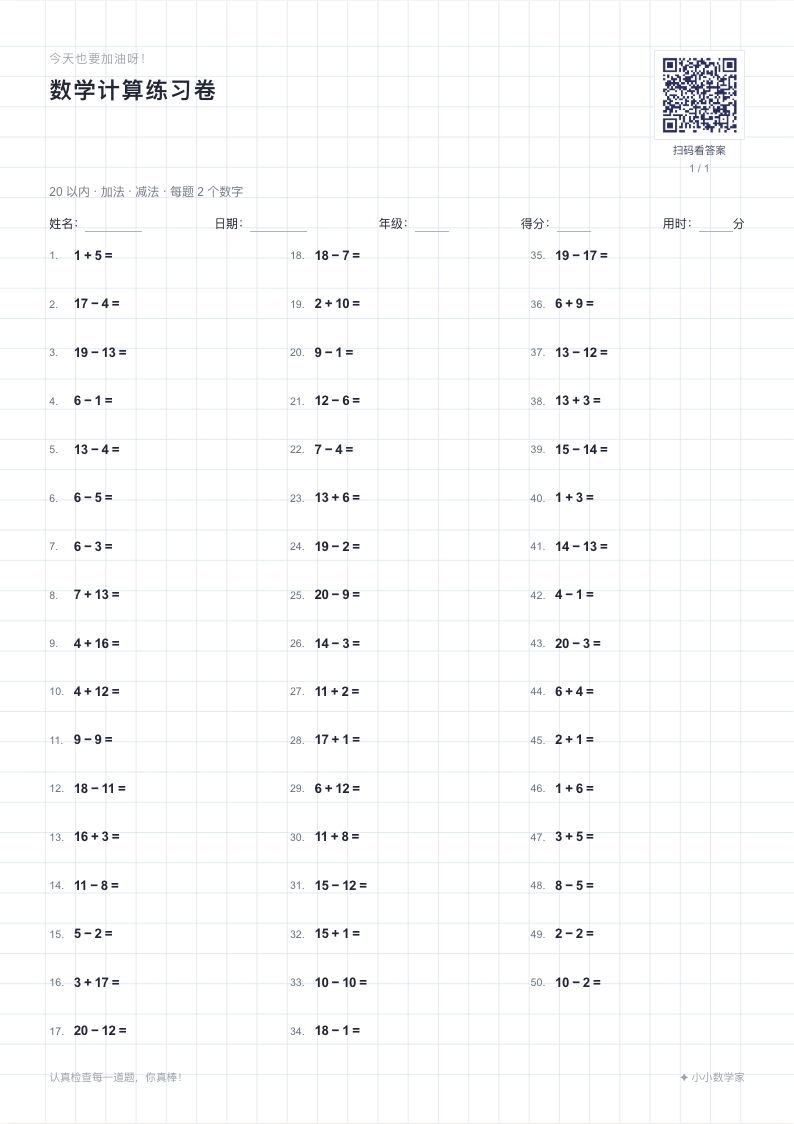
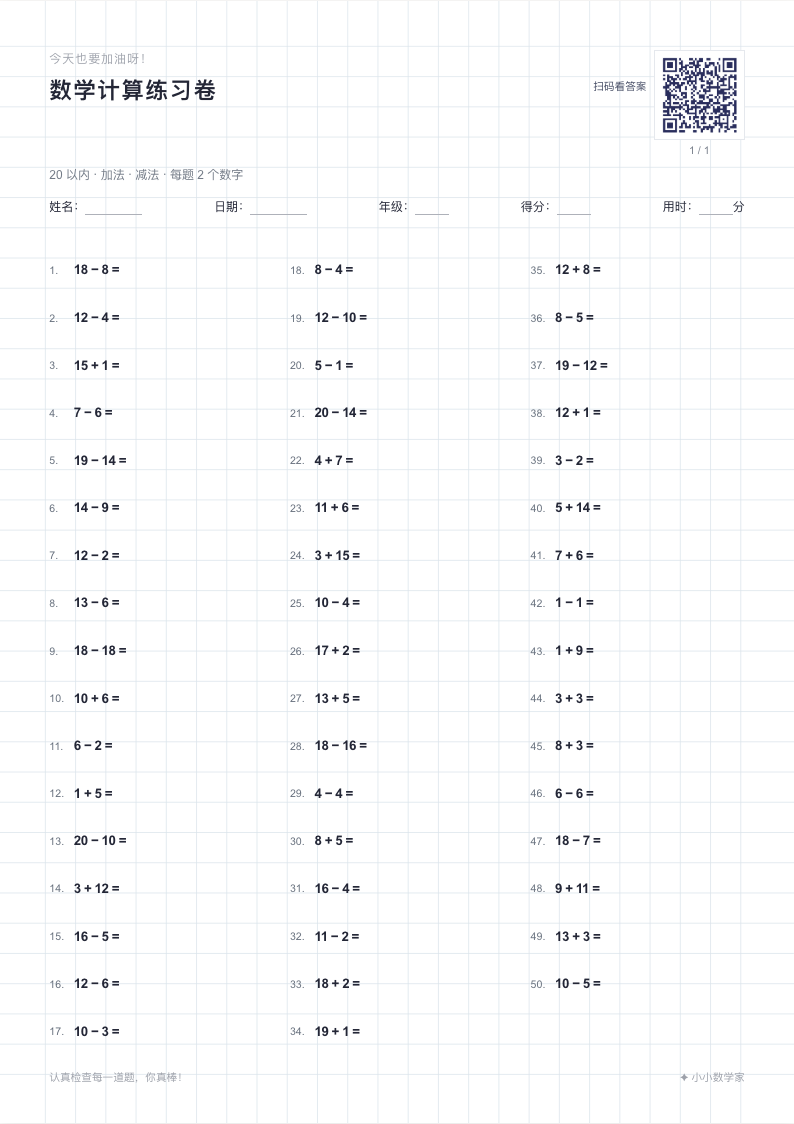
fix: prevent blank mobile print pages and refine worksheet header

diff --git a/src/style.css b/src/style.css
@@ -11,6 +11,7 @@
 .paper:not(.answer-page) .paper-top{height:44mm}.paper-heading{align-items:flex-start}.paper-heading-right{display:flex;align-items:flex-start;gap:3mm}.paper-qr{display:block;width:24mm;height:24mm;flex:none;background:#fff;border:1px solid #e5e8ed;padding:1mm}.paper-qr img{display:block;width:100%;height:100%}.paper-qr span{font-size:7pt}.paper-columns{grid-template-columns:repeat(var(--question-columns,2),minmax(0,1fr))}.problem-column{grid-template-rows:repeat(var(--question-rows,25),minmax(0,1fr))}.problem-expression{flex:0 1 auto}.answer-area{width:auto;min-width:10mm;flex:1}.paper-columns[style*="3"] .problem{gap:1mm;padding:0;font-size:10pt}.paper-columns[style*="3"] .problem-number{min-width:5.5mm;font-size:8pt}
 .paper-heading-right{flex-direction:column;align-items:center;gap:1mm}.paper-qr{order:0}.paper-heading-right .paper-page{order:1;font-size:9pt}.copies-hint{margin:8px 0 0;color:#9697a8;font-size:11px;line-height:1.5}.custom-range input:disabled{background:#f4f3f5;color:#a6a7ae;cursor:not-allowed}.print-button:disabled{background:#b3b0b8;cursor:not-allowed;box-shadow:none;transform:none}
 .paper:not(.answer-page) .paper-top{height:48mm}.paper-heading-right .paper-qr-hint{order:1;color:#464d65;font-size:8pt;line-height:1.3;white-space:nowrap}.paper-heading-right .paper-page{order:2;font-size:8pt}
+.paper-heading-right{flex-direction:row;align-items:flex-start;gap:2mm}.paper-qr-stack{display:flex;flex-direction:column;align-items:center;gap:1mm}.paper-heading-right .paper-qr-hint{order:0;align-self:flex-start;margin-top:8mm}.paper-heading-right .paper-page{order:0}.paper-columns{padding-top:4mm}
 .shared-answers{max-width:1080px;min-height:100vh;margin:auto;padding:28px 26px 65px}.shared-header{display:flex;align-items:center;justify-content:space-between;gap:12px}.shared-header a{color:#5d4cb9;background:#fff;padding:11px 15px;border-radius:11px;text-decoration:none;font-size:13px;font-weight:700}.shared-intro{background:#ffefd6;border-radius:25px;padding:38px;margin:36px 0 22px}.shared-intro h1{font-size:clamp(28px,5vw,43px);color:#333454;margin:14px 0 12px}.shared-intro p{color:#6b6a7a;line-height:1.8;margin:0}.shared-grid{display:grid;grid-template-columns:repeat(auto-fill,minmax(210px,1fr));gap:10px}.shared-answer{display:flex;align-items:center;gap:8px;min-width:0;background:#fff;border:1px solid #ede7db;border-radius:12px;padding:13px 15px;font-size:14px;font-weight:600}.shared-answer span:nth-child(2){min-width:0;flex:1}.shared-number{color:#8377c5;width:27px;flex:none}.shared-answer strong{font-size:19px;color:#ea7259}.shared-footer{text-align:center;color:#8f8995;padding-top:36px;font-size:13px}
 .shared-start{display:inline-flex;align-items:center;justify-content:center;gap:14px;min-height:46px;margin-top:22px;padding:12px 24px;border-radius:14px;background:#6955d7;color:#fff;text-decoration:none;font-size:16px;font-weight:800;box-shadow:0 6px 0 #5949ad25;transition:transform .15s,box-shadow .15s}.shared-start:hover{transform:translateY(-2px);box-shadow:0 8px 14px #5949ad32}.shared-start:focus-visible{outline:3px solid #29245c;outline-offset:3px}.shared-start span{font-size:20px}
 .hero-top{display:flex;align-items:flex-start;justify-content:space-between;gap:18px}.site-qr{display:flex;align-items:center;gap:10px;padding:8px 13px 8px 8px;background:#fff;border:1px solid #f2dfc9;border-radius:16px;box-shadow:0 7px 20px #99735216;color:#44446b;text-decoration:none;font-size:12px;font-weight:800;z-index:3}.site-qr img,.qr-loading{width:90px;height:90px;display:grid;place-items:center;flex:none;border-radius:9px}.qr-loading{background:#f0edff;font-size:35px;color:#6755cf}.site-qr small{display:block;color:#a6a2a3;font-size:10px;margin-top:5px;font-weight:600;white-space:nowrap}.hero-doodle{right:260px;top:118px;transform:scale(.7);transform-origin:center right}.answer-columns{display:grid;grid-template-columns:repeat(var(--answer-columns),minmax(0,1fr));gap:7mm;flex:1;min-height:0}.answer-column{display:grid;grid-template-rows:repeat(25,minmax(0,1fr))}.answer-row{border-bottom:1px solid #e8e9eb;display:flex;align-items:center;justify-content:space-between;padding:0 3mm;font-size:11pt;color:#666}.answer-row strong{color:#262a42;font-size:12pt}.answer-page .paper-top{height:35mm}
@@ -18,5 +19,16 @@
 @media(max-width:570px){.hero-inner{min-height:310px;padding:20px 22px 35px}.hero-copy{padding-top:40px}.hero-copy p{font-size:13px}.hero-doodle{opacity:.12;right:-100px;top:70px}.workspace{padding:31px 16px 55px}.workspace-heading{margin-bottom:21px}.workspace-heading h2{font-size:24px}.controls{display:flex;gap:12px}.control-card{padding:18px}.preview-toolbar{align-items:flex-start}.preview-toolbar h3{font-size:16px}.print-button{padding:10px;font-size:12px}.preview-section{padding:13px}.site-footer{padding:0 16px 25px;gap:8px;font-size:10px}}
 @media(max-width:570px){.site-qr{padding:5px;flex-direction:column;gap:0;font-size:9px;text-align:center}.site-qr img,.qr-loading{width:64px;height:64px}.site-qr small{display:none}.brand{font-size:15px}.brand small{display:block;margin-left:0}.brand-mark{width:34px;height:34px}.hero-doodle{display:none}}
 @media(prefers-reduced-motion:reduce){*,*::before,*::after{animation-duration:.01ms!important;transition-duration:.01ms!important;scroll-behavior:auto!important}}
-@page{size:A4 portrait;margin:0}
-@media print{html,body,#app{width:210mm!important;margin:0!important;padding:0!important;background:white!important}.screen-shell{overflow:visible}.hero,.workspace-heading,.controls,.preview-toolbar,.preview-note,.status,.site-footer{display:none!important}.workspace,.workspace-grid,.preview-section,.paper-scroll{display:block!important;width:auto!important;max-width:none!important;margin:0!important;padding:0!important;border:0!important;box-shadow:none!important;background:transparent!important;overflow:visible!important}.paper{width:210mm!important;min-width:210mm!important;height:297mm!important;margin:0!important;box-shadow:none!important;break-after:page;page-break-after:always;overflow:hidden!important;-webkit-print-color-adjust:exact;print-color-adjust:exact}.paper:last-child{break-after:auto;page-break-after:auto}.paper-kicker,.paper-page,.paper-subtitle,.paper-foot,.problem-number{color:#666!important}.writing-guide{stroke:#9ca8af!important}.paper-dots .writing-guide{fill:#879ca5!important;stroke:none!important}.student-fields{border-color:#bbb!important}}
+@page{size:A4 portrait;margin:10mm}
+@media print{
+  html,body,#app{width:auto!important;margin:0!important;padding:0!important;background:white!important}
+  .screen-shell{min-height:0;overflow:visible}
+  .hero,.workspace-heading,.controls,.preview-toolbar,.preview-note,.status,.site-footer{display:none!important}
+  .workspace,.workspace-grid,.preview-section,.paper-scroll{display:block!important;width:auto!important;max-width:none!important;margin:0!important;padding:0!important;border:0!important;box-shadow:none!important;background:transparent!important;overflow:visible!important}
+  /* Do not fill the entire physical A4: iOS may add its own unprintable margins. */
+  .paper{width:100%!important;min-width:0!important;height:265mm!important;margin:0!important;padding:4mm 3mm 3mm!important;box-shadow:none!important;break-inside:avoid-page;page-break-inside:avoid;overflow:hidden!important;-webkit-print-color-adjust:exact;print-color-adjust:exact}
+  /* Break before the next sheet, never after the final one (which caused blank pages). */
+  .paper+.paper{break-before:page;page-break-before:always}
+  .paper-kicker,.paper-page,.paper-subtitle,.paper-foot,.problem-number{color:#666!important}
+  .student-fields{border-color:#bbb!important}
+}

diff --git a/src/main.ts b/src/main.ts
@@ -167,7 +167,7 @@ function printPage(worksheet: Worksheet, page: number, copyIndex: number): strin
 
   return `<section class="paper paper-${paperStyle}" aria-label="试卷第 ${page + 1} 页">${pagePattern(paperStyle)}
     <div class="paper-top">
-      <div class="paper-heading"><div><span class="paper-kicker">${copies > 1 ? `第 ${copyIndex + 1} 份 · ` : ''}今天也要加油呀！</span><h2>数学计算练习卷</h2></div><div class="paper-heading-right"><a class="paper-qr" href="${sheetUrl(worksheets[copyIndex], copyIndex)}" aria-label="扫码查看这份试卷的答案">${qrImages[copyIndex] ? `<img src="${qrImages[copyIndex]}" alt="扫码查看这份试卷的答案" width="90" height="90">` : '<span>二维码生成中</span>'}</a><span class="paper-qr-hint">扫码看答案</span><span class="paper-page">${page + 1} / ${settings.count / 50}</span></div></div>
+      <div class="paper-heading"><div><span class="paper-kicker">${copies > 1 ? `第 ${copyIndex + 1} 份 · ` : ''}今天也要加油呀！</span><h2>数学计算练习卷</h2></div><div class="paper-heading-right"><span class="paper-qr-hint">扫码看答案</span><div class="paper-qr-stack"><a class="paper-qr" href="${sheetUrl(worksheets[copyIndex], copyIndex)}" aria-label="扫码查看这份试卷的答案">${qrImages[copyIndex] ? `<img src="${qrImages[copyIndex]}" alt="扫码查看这份试卷的答案" width="90" height="90">` : '<span>二维码生成中</span>'}</a><span class="paper-page">${page + 1} / ${settings.count / 50}</span></div></div></div>
       <p class="paper-subtitle">${settings.limit} 以内 · ${operationLabel} · 每题 ${settings.operands} 个数字</p>
       <div class="student-fields"><span>姓名：<i></i></span><span>日期：<i></i></span><span>年级：<i></i></span><span>得分：<i></i></span><span>用时：<i></i> 分</span></div>
     </div>

diff --git a/AGENTS.md b/AGENTS.md
@@ -15,13 +15,13 @@
 - 多数字混合运算的显示与求值规则必须一致；不要通过直接计算展示字符串或使用 `eval` 来决定答案。
 - 顾及一年级使用场景：默认设置易懂，算式清楚，保留足够手写空间。打印内容按 A4 每页 50 题排版，每页都要有姓名、日期、年级、得分、用时栏。支持白纸、数学本子方格、横线、点阵和田字格五种整页纸张底纹，保持分页一致；底纹不能只依赖打印背景图形选项，不能只在算式后面局部显示。可选答案每份试卷只额外占一张 A4（50 / 100 题均如此）。
 - 网页 UI 应色彩丰富、适合小孩操作，但仍保持文字对比度、明确的选中状态和易触达的按钮；屏幕视觉与打印卷面分离，不让彩色装饰造成打印费墨、分页错误或书写障碍。
-- 每张打印试卷右上角的二维码应能打开网站并显示**对应试卷**的算式与答案；二维码下方标注“扫码看答案”，页码在提示文字下方。多份试卷的二维码必须分别对应各自答案，已有二维码的随机算法版本应保持可重现。短算式可用三列、长算式用两列，但每页始终是 50 题，且不挤占答案书写空间。50 题模式可生成多份不同试卷；100 题模式限一份，答案每份一张 A4。
+- 每张打印试卷右上角的二维码应能打开网站并显示**对应试卷**的算式与答案；二维码左侧标注“扫码看答案”，页码在二维码下方。多份试卷的二维码必须分别对应各自答案，已有二维码的随机算法版本应保持可重现。短算式可用三列、长算式用两列，但每页始终是 50 题，且不挤占答案书写空间。50 题模式可生成多份不同试卷；100 题模式限一份，答案每份一张 A4。
 - 优先保持实现简单、可访问、便于在 GitHub Pages 静态托管；不要引入没有必要的服务端依赖。
 
 ## 验证与文档
 
 - 变更出题逻辑时，验证范围边界、减法非负、除法整除、多步中间结果、重复题处理与题目组合不足的情况。
-- 变更打印样式时，分别检查五种整页底纹的 50 题一页、100 题两页、页眉字段、可写空间及答案只占一张 A4；记录手动验证使用的浏览器和打印设置。
+- 变更打印样式时，分别检查五种整页底纹的 50 题一页、100 题两页、页眉字段、可写空间、移动端不多出空白页及答案每份只占一张 A4；记录手动验证使用的浏览器和打印设置。
 - 每次新增、修改或移除功能，以及任何涉及 README 内容或部署方式的变更，都必须同步检查并按需更新 `README.md`，保证项目介绍反映真实状态、Fork 部署步骤与实际部署流程一致；不得将未实现功能写成已实现。
 - `README.md` 只包含项目介绍及 Fork 部署步骤。详细需求放在 `docs/requirements.md`；开发、测试与机密扫描的操作约定放在本文件或其他开发文档，不放在 README。
 

diff --git a/docs/requirements.md b/docs/requirements.md
@@ -25,7 +25,7 @@
 - “生成新试卷”和“打印试卷”应醒目且易于点击；表单文字和触控区域适合手机、平板与电脑使用。
 - 预览区域接近实际纸张的样式，切换卷面样式时能直接看到效果。动画可有但不能影响阅读、操作或打印，尊重减少动态效果的系统设置。
 - 保持文字、按钮与背景的可读对比度；屏幕上的丰富色彩不应带入打印试卷的大面积背景，避免费墨或遮挡手写区域。
-- 每张打印试卷右上角显示**该份试卷的专属二维码**，二维码下方标注“**扫码看答案**”，页码再放在提示文字下方；扫码打开当前可访问的站点（包括 Fork 站点），网页展示这份试卷按题号排列的算式与答案。多份试卷分别有各自的二维码；100 题的两页使用同一个二维码。二维码不得依赖服务端保存题目，网址里的版本与种子必须可重现对应卷面。本站自定义域名定为 `math.svenshen.me`。DNS 未生效前不能把二维码硬编码到不可访问的域名。
+- 每张打印试卷右上角显示**该份试卷的专属二维码**，二维码**左侧**标注“**扫码看答案**”，页码放在二维码下方；扫码打开当前可访问的站点（包括 Fork 站点），网页展示这份试卷按题号排列的算式与答案。多份试卷分别有各自的二维码；100 题的两页使用同一个二维码。二维码不得依赖服务端保存题目，网址里的版本与种子必须可重现对应卷面。本站自定义域名定为 `math.svenshen.me`。DNS 未生效前不能把二维码硬编码到不可访问的域名。
 - 扫码打开的答案页顶部提供醒目的“**我要出题**”按钮，点击返回本网站的出题首页，方便看完答案后生成自己的练习卷。
 
 ## 打印要求
@@ -33,6 +33,7 @@
 - 使用 A4 纵向版式，每页固定 50 题；100 题恰好分成两页。
 - 两个数字的基础题在空间允许时优先排成三列，减少两列布局的空旷感；多数字或较大范围题用两列保留可书写空间，仍然每页固定 50 题。
 - 题目区域留有手写答案的空间；每页都有填写栏与页码。
+- 姓名等信息栏的下边线与第一行题目之间留有明显间距；打印内容需在移动端系统可能附加的页边距内排下，不因末页分页符产生空白页。
 - 五种底纹使用相同的题目区域、分页和基本可书写空间；整页辅助线不能遮挡算式，等号后留有空白书写区，打印预览应与实际选择一致。
 - 方格、虚线、点阵与田字格不能只依赖浏览器的“打印背景图形”选项；应采用在常见浏览器中默认也能打印的线条或点实现，并检查它们不会太密或太深。
 - 打印时隐藏网页的设置和操作按钮；若选择打印答案，每份试卷（50 / 100 题）只增加一张答案 A4，按题号查找答案，不混入练习卷。多份试卷的答案页排在所有题目页之后，且注明对应份数。

diff --git a/README.md b/README.md
@@ -10,14 +10,14 @@
 - **选择计算方式**：加、减、乘、除可多选，每题可使用 2、3 或 4 个数字。一年级默认是 20 以内的两数字加减题。所有数字、中间结果和答案均在选定范围内，且不会出现负数；除法只出能整除的题。
 - **一次制作多份**：50 题模式可生成 1～10 份题目不同的试卷，而不是把同一张纸复印多次；100 题模式固定为一份。当题目条件过窄、无法保证多份不同的时候，网页会提示调整设置。
 - **选择整页底纹**：清爽白纸、数学方格、横线、点阵、田字格。底纹覆盖整张试卷，而不是只加在等号后面；屏幕预览与打印版式对应。
-- **按 A4 打印**：每张试卷纸 50 题，顶部留有姓名、日期、年级、得分和用时的填写位置。两数字基础题使用三列，较长的算式使用两列。100 题分成两张 A4；可以选择为**每份**试卷再加印一张答案 A4。
-- **扫码核对答案**：每张试卷右上角都有“扫码看答案”的专属二维码，手机扫码可在网页查看**这一份试卷**的算式与答案。答案页有“我要出题”按钮，可以直接回到出题首页。
+- **按 A4 打印**：每张试卷纸 50 题，顶部留有姓名、日期、年级、得分和用时的填写位置，第一行题目与页眉分隔线留有间距。两数字基础题使用三列，较长的算式使用两列。100 题分成两张 A4；可以选择为**每份**试卷再加印一张答案 A4。打印版留有安全页边距，避免移动端额外产生空白页。
+- **扫码核对答案**：每张试卷右上角都有专属二维码，左侧标注“扫码看答案”，页码在二维码下方。手机扫码可在网页查看**这一份试卷**的算式与答案；答案页有“我要出题”按钮，可以直接回到出题首页。
 
 ### 使用方法
 
 1. 在左侧（手机上为页面上方）选择题量、数字范围、运算方式、每题数字个数和纸张底纹；如果选 50 题，还可设置打印份数。
 2. 右侧实时预览当前试卷；点击 **生成新试卷** 可以随机换一套题。切换底纹不会改变已经生成的题目。
-3. 如需纸质答案，勾选 **附上答案页**，然后点击 **打印试卷**。打印对话框中选 **A4、100% 缩放**，并关闭浏览器自带的页眉和页脚；建议先检查打印预览的页数。
+3. 如需纸质答案，勾选 **附上答案页**，然后点击 **打印试卷**。打印对话框中选 **A4、100% 缩放**；如果设备提供选项，关闭浏览器自带的页眉和页脚。建议先检查打印预览的页数；手机系统和打印机仍可能有各自的默认页边距。
 4. 完成练习后，可扫描题目纸右上角的二维码，在网页上对照题号核对答案。不打印答案页也能扫码查看。
 
 ### 页面预览

diff --git a/worklogs/2026-11-03.md b/worklogs/2026-11-03.md
@@ -181,3 +181,10 @@
 - 改动：在 `README.md` 的“项目介绍”和“Fork 后如何部署”两部分中补充详细功能、操作流程、A4 打印设置、GitHub Pages 与可选 Cloudflare 子域名部署步骤；新增实际网页截图 `docs/screenshots/home.png`、`worksheet.png`、`answers.png` 并嵌入 README。
 - 验证：三张截图来自本地运行的真实网页，分别展示出题界面、整页方格试卷和手机端答案页；Markdown 图片相对路径与实际文件一致。`npm run build` 通过，答案页按钮本地跳转验证通过。
 - 未完成：自定义域名证书签发后应再次检查 README 中的站点状态说明。
+
+## 修复手机打印空白页与试卷页眉间距
+
+- 目的：避免手机打印 50 题时把空白第二页带出来，并回应第一行题目过于贴近信息栏分隔线的反馈。
+- 改动：将打印纸张从精确填满 210×297mm 改为带 10mm @page 页边距、试卷内容高度 265mm 和自适应可打印宽度；仅在后一张纸之前强制分页，不在末页追加分页符。第一行题目与信息栏之间增加 4mm 间距；将“扫码看答案”文字移到二维码左侧，页码仍位于二维码下方。同步更新 `README.md`、需求和协作规则。
+- 验证：`npm run build` 通过；桌面 Chrome 和模拟 390px 手机视口的 Chrome 均在 A4、关闭背景图形的设置下，五种纸张底纹 × 50 / 100 题 × 是否带答案的 20 种组合页数准确（共检查 40 组），无多出空白页；模拟手机打印 3 份各 50 题并附答案正好 6 页。浏览器测量“扫码看答案”位于二维码左侧、页码在二维码下方、第一行题目与信息栏相距约 15px。已更新 README 中的出题页和试卷截图以反映新排版。实际 iOS Safari / 手机打印机尚未现场验证。
+- 未完成：请使用实际手机重新尝试打印；若仍出现空白页，需记录手机系统、浏览器、打印目标及纸张设置进一步排查。
